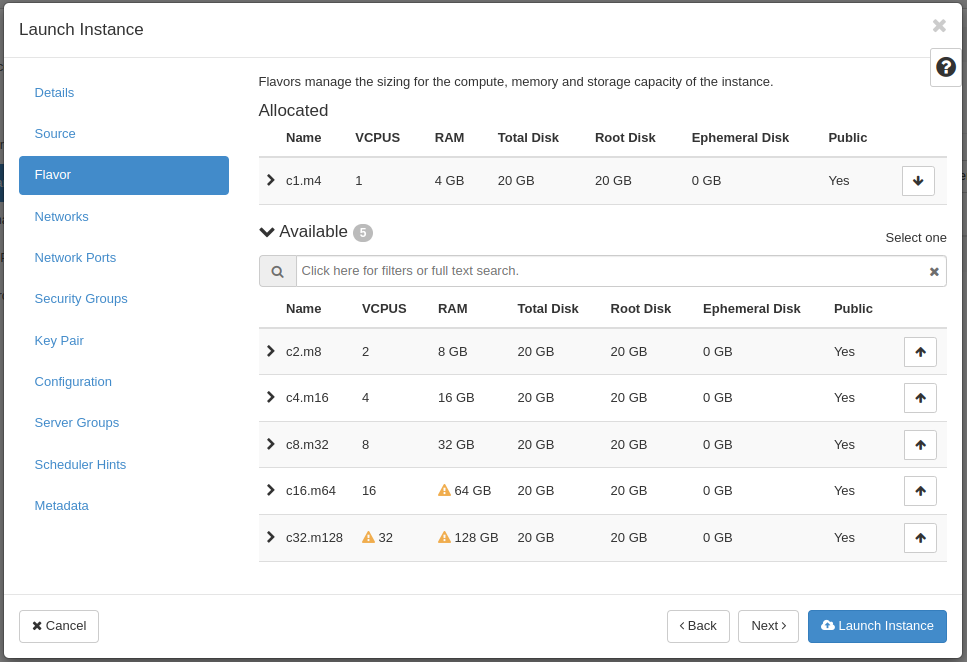
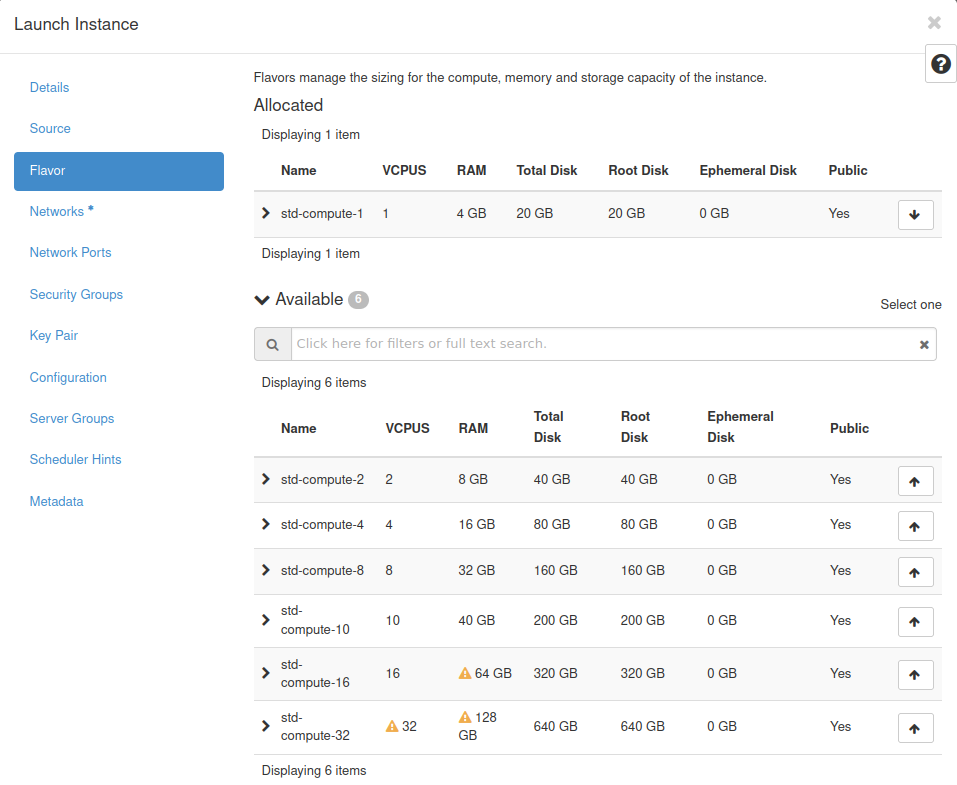
Updated Cloud docs, and fixed a link in the matlab doc

diff --git a/pages/cloud/advanced.md b/pages/cloud/advanced.md
@@ -49,12 +49,12 @@ $ source ~/openstack-cli/bin/activate
 
 ```bash
 (openstack-client) $ openstack server list
-+--------------------------------------+----------+--------+------------------------------------------------------+--------------------------+--------+
-| ID                                   | Name     | Status | Networks                                             | Image                    | Flavor |
-+--------------------------------------+----------+--------+------------------------------------------------------+--------------------------+--------+
-| 2407495d-ea94-4676-8a18-18cd29cd516d | test-vm2 | ACTIVE | lakeeffect-demo-network=128.205.11.65, 192.168.1.151 | N/A (booted from volume) | c1.m4  |
-| 3e22ef68-556a-4106-a56e-56674591fd8e | test-vm  | ACTIVE | ccr-public=128.205.11.52                             | N/A (booted from volume) | c1.m4  |
-+--------------------------------------+----------+--------+------------------------------------------------------+--------------------------+--------+
++--------------------------------------+----------+--------+------------------------------------------------------+--------------------------+----------------+
+| ID                                   | Name     | Status | Networks                                             | Image                    | Flavor         |
++--------------------------------------+----------+--------+------------------------------------------------------+--------------------------+----------------+
+| 2407495d-ea94-4676-8a18-18cd29cd516d | test-vm2 | ACTIVE | lakeeffect-demo-network=128.205.11.65, 192.168.1.151 | N/A (booted from volume) | std-compute-1  |
+| 3e22ef68-556a-4106-a56e-56674591fd8e | test-vm  | ACTIVE | ccr-public=128.205.11.52                             | N/A (booted from volume) | std-compute-1  |
++--------------------------------------+----------+--------+------------------------------------------------------+--------------------------+----------------+
 ```
 
 The **python-openstackclient** project is a common client that supports most of the various Openstack Projects, however You may need to install an individual project’s client because coverage is not yet sufficient in the OpenStack client. For example, the **python-cinderclient** may be needed if less common cinder commands are needed. This is installed the same way as the python-openstackclient package was installed. For more information on the individual project clients go [here](https://docs.openstack.org/newton/user-guide/common/cli-install-openstack-command-line-clients.html).
@@ -67,19 +67,18 @@ List Images:
 
 ```
 (openstack-client) $ openstack image list
-+--------------------------------------+------------------------------------------------+--------+
-| ID                                   | Name                                           | Status |
-+--------------------------------------+------------------------------------------------+--------+
-| f70d120e-89d7-4bef-a291-6db70406bd5b | CentOS 8-stream (x86_64) [2022-09-13]          | active |
-| 78aa844e-ab92-43b1-b7e3-9f826b02e6cd | CentOS 9-stream (x86_64) [2022-09-19]          | active |
-| bbc56d42-ec07-469a-b01b-33268c3040cf | Debian 10.13.4 (x86_64) [2022-10-13]           | active |
-| 48d45cc8-4272-4f8f-9a93-b920056b41d0 | Fedora 36 Cloud Base (x86_64) [2022-05-04]     | active |
-| f568aa5f-9b32-4182-ad9a-7afbee9e5c62 | Rocky Linux 8.6 (x86_64) [2022-07-02]          | active |
-| 74c64db6-0a08-4fae-b462-469a0c15ab99 | Rocky Linux 9.0 (x86_64) [2022-08-30]          | active |
-| 63754185-6872-40f1-8990-0bff66406b00 | Ubuntu 18.04 LTS (x86_64) [2022-10-14]         | active |
-| cbaa2d71-7837-4322-9eba-94dfc44c2898 | Ubuntu 20.04 LTS (x86_64) [2022-10-18]         | active |
-| 6b4041af-56df-4786-98ed-d3ede57ca901 | Ubuntu 22.04 LTS (x86_64) [2022-10-18]         | active |
-+--------------------------------------+------------------------------------------------+--------+
++--------------------------------------+---------------------------------------------------------+--------+
+| ID                                   | Name                                                    | Status |
++--------------------------------------+---------------------------------------------------------+--------+
+| 5e7dd171-0bcf-44f1-abdb-ed59aac60075 | CentOS 8-stream release [2024-04-16]                    | active |
+| bea90d3c-5594-44d1-8cab-757519996433 | CentOS 9-stream release [2024-04-16]                    | active |
+| b54ab975-118c-41e0-a193-e53d2acd4543 | Debian 12.5 (Bookworm) release [2024-04-15]             | active |
+| 6c78d3c7-fe38-4396-9e2e-d986db30297a | Fedora 39 Cloud Base release [2023-11-01]               | active |
+| dcd4ed90-09df-4176-86e9-29c856d8c546 | Rocky Linux 8.9 release [2023-11-19]                    | active |
+| 862bffe6-3b25-46c9-abdf-dedb9792bbca | Rocky Linux 9.3 release [2023-11-13]                    | active |
+| 37b8ca2b-3f13-4564-a2bd-2850cf6ee52c | Ubuntu 20.04 LTS (Focal Fossa) release [2024-04-08]     | active |
+| 562aba32-e911-4ef1-8411-fd726d990ac2 | Ubuntu 22.04 LTS (Jammy Jellyfish) release [2024-04-16] | active |
++--------------------------------------+------------------------------------------------+-----------------+
 ```
 
 List Volumes:
@@ -99,13 +98,13 @@ List Volumes:
 Spin up a VM:
 
 ```bash
-(openstack-client) $ openstack server create --flavor c1.m4 --image 'Ubuntu 22.04 LTS (x86_64) [2022-10-18]'  --network ccr-public --key-name sguercio --security-group My_Security-Group My_Test_VM
+(openstack-client) $ openstack server create --flavor std-compute-1 --image 'Ubuntu 22.04 LTS (Jammy Jellyfish) release [2024-04-16]'  --network ccr-public --key-name mykeypair --security-group My_Security-Group My_Test_VM
 ```
 
 Upload an Image to Openstack:
 
 ```bash
-(openstack-client) $ openstack image create --container-format bare --disk-format qcow2 --progress --public --file cirros-0.6.1-x86_64-disk.img 'CirrOS 0.6.1 (x86_64) [2022-11-22]'
+(openstack-client) $ openstack image create --container-format bare --disk-format qcow2 --progress --public --file cirros-0.6.2-x86_64-disk.img 'CirrOS 0.6.2 (x86_64) [2023-05-30]'
 ```
 
 ## Private Networking
@@ -143,7 +142,7 @@ Connect the router to the public network. This is optional if you want to be abl
 Create a new VM on the network to test:
 
 ```bash
-    $ openstack server create --flavor c1.m4 --image 'Ubuntu 22.04 LTS (x86_64) [2022-10-18]' --nic net-id=my-private-net --key-name mykeypair --security-group mysecgroup --wait Test-VM-1
+    $ openstack server create --flavor std-compute-1 --image 'Ubuntu 22.04 LTS (Jammy Jellyfish) release [2024-04-16]' --nic net-id=my-private-net --key-name mykeypair --security-group mysecgroup --wait Test-VM-1
 ```
 
 Attach a Floating IP address to the VM if you want it to have an IP address on the public network:
@@ -163,18 +162,18 @@ All traffic is allowed by default.**
 
 
 ```bash
-    $ openstack server create --flavor c1.m4 --image 'Ubuntu 22.04 LTS (x86_64) [2022-10-18]' --nic net-id=my-private-net --key-name mykeypair --security-group mysecgroup --wait Test-VM-2
+    $ openstack server create --flavor std-compute-1 --image 'Ubuntu 22.04 LTS (Jammy Jellyfish) release [2024-04-16]' --nic net-id=my-private-net --key-name mykeypair --security-group mysecgroup --wait Test-VM-2
 ```
 
 
 ```bash
     $ openstack server list
-    +--------------------------------------+-----------+--------+-----------------------------------------------+----------------------------------------+--------+
-    | ID                                   | Name      | Status | Networks                                      | Image                                  | Flavor |
-    +--------------------------------------+-----------+--------+-----------------------------------------------+----------------------------------------+--------+
-    | ef2e79b8-9e95-4a80-946b-f36f3d5d2cb5 | Test-VM-2 | ACTIVE | my-private-net=192.168.10.136                 | Ubuntu 22.04 LTS (x86_64) [2022-10-18] | c1.m4  |
-    | 461d98cc-f5db-4973-871e-c9f1f87aeb6b | Test-VM-1 | ACTIVE | my-private-net=128.205.11.111, 192.168.10.147 | Ubuntu 22.04 LTS (x86_64) [2022-10-18] | c1.m4  |
-    +--------------------------------------+-----------+--------+-----------------------------------------------+----------------------------------------+--------+
+    +--------------------------------------+-----------+--------+-----------------------------------------------+---------------------------------------------------------+---------------+
+    | ID                                   | Name      | Status | Networks                                      | Image                                                   | Flavor        |
+    +--------------------------------------+-----------+--------+-----------------------------------------------+---------------------------------------------------------+---------------+
+    | ef2e79b8-9e95-4a80-946b-f36f3d5d2cb5 | Test-VM-2 | ACTIVE | my-private-net=192.168.10.136                 | Ubuntu 22.04 LTS (Jammy Jellyfish) release [2024-04-16] | std-compute-1 |
+    | 461d98cc-f5db-4973-871e-c9f1f87aeb6b | Test-VM-1 | ACTIVE | my-private-net=128.205.11.111, 192.168.10.147 | Ubuntu 22.04 LTS (Jammy Jellyfish) release [2024-04-16] | std-compute-1 |
+    +--------------------------------------+-----------+--------+-----------------------------------------------+---------------------------------------------------------+---------------+
 ```
 
 ```bash

diff --git a/pages/cloud/using.md b/pages/cloud/using.md
@@ -120,13 +120,13 @@ For more information about instances, flavors and images please see the official
 
 > | Instance Type | vCPU | Memory | Storage |
 > | :---     |    ---:  |   ---: |    ---:|
-> | c1.m4    | 1 cores  | 4 GB   | 20 GB  |
-> | c2.m8    | 2 cores  | 8 GB   | 20 GB  |
-> | c4.m16   | 4 cores  | 16 GB  | 20 GB  |
-> | c6.m24   | 6 cores  | 24 GB  | 20 GB  |
-> | c8.m32   | 8 cores  | 32 GB  | 40 GB  |
-> | c16.m64  | 16 cores | 64 GB  | 60 GB  |
-> | c32.m128 | 32 cores | 128 GB | 120 GB |
+> | std-compute-1    | 1 cores  | 4 GB   | 20 GB  |
+> | std-compute-2    | 2 cores  | 8 GB   | 40 GB  |
+> | std-compute-4   | 4 cores  | 16 GB  | 80 GB  |
+> | std-compute-8   | 8 cores  | 32 GB  | 160 GB  |
+> | std-compute-10  | 10 cores | 40 GB  | 200 GB  |
+> | std-compute-16 | 16 cores | 64 GB | 320 GB |
+> | std-compute-32 | 32 cores | 128 GB | 640 GB |
 
 
 > ###### Advanced
@@ -138,8 +138,8 @@ For more information about instances, flavors and images please see the official
 
 > | Instance Type | GPU | vCPU | Memory | Storage |
 > | :---     |  :----: |   ---:  |   ---: |    ---:|
-> | c8.m32.gpu16   | V100D-16Q | 8 cores  | 32 GB   | 60 GB  |
-> | c16.m64.gpu32  | V100D-32Q | 16 cores | 64 GB   | 120 GB |
+> | adv-gpu-8   | V100-32 | 8 cores  | 32 GB   | 100 GB  |
+> | adv-gpu-16 | V100-32 | 16 cores | 64 GB   | 100 GB |
 
 >> **FastIO**
 
@@ -148,10 +148,18 @@ For more information about instances, flavors and images please see the official
 
 > | Instance Type | vCPU | Memory | NVME Storage | Block Storage |
 > | :---     |    ---: |   ---:  |   ---: |     ---:|
-> | c4.m16.e100   | 8 cores   | 16 GB   | 100 GB | 20 GB  |
-> | c8.m32.e250   | 16 cores  | 32 GB   | 250 GB | 40 GB  |
-> | c16.m64.e500  | 32 cores  | 32 GB   | 500 GB | 60 GB  |
+> | adv-nvme-4   | 4 cores   | 16 GB   | 100 GB | 80 GB  |
+> | adv-nvme-8   | 8 cores   | 32 GB   | 250 GB | 160 GB  |
+> | adv-nvme-16   | 16 cores   | 64 GB   | 500 GB | 320 GB  |
 
+> | Instance Type | vCPU | Memory | PMEM Storage | Block Storage |
+> | :---     |    ---: |   ---:  |   ---: |     ---:|
+> | adv-pmem-16   | 16 cores   | 64 GB   | 500 GB | 320 GB  |
+> | adv-nvme-32   | 32 cores   | 128 GB   | 1000 GB | 640 GB  |
+
+> ###### Custom Flavors
+
+If you require a flavor that is not listed, you can contact [Contact CCR Help](../help.md) and we can work with you on creating a custom flavor that suits your needs.
 
 #### Images
 
@@ -161,16 +169,14 @@ These are all stock images pulled directly from the various vendor repos. Due to
 
 > |Operating System | Version | Build Date |
 > | :----: | ---: | ---: |
-> | CentOS | 7.9  | 2021-11-16|
-> | CentOS | 8-stream | 2022-09-13|
-> | CentOS | 9-stream | 2022-09-19|
-> | Debian | 10.13.4 | 2022-10-13|
-> | Fedora | 36 | 2022-05-04|
-> | Rocky  | 8.6 | 2022-07-02|
-> | Rocky  | 9.0 | 2022-08-30|
-> | Ubuntu  | 18.04 | 2022-10-14|
-> | Ubuntu  | 20.04 | 2022-10-18|
-> | Ubuntu  | 22.04 | 2022-10-18|
+> | CentOS | 8-stream | 2024-04-16|
+> | CentOS | 9-stream | 2024-04-16|
+> | Debian | 12.5 | 2024-04-15|
+> | Fedora | 39 | 2023-11-01|
+> | Rocky  | 8.9 | 2023-11-19|
+> | Rocky  | 9.3 | 2023-11-13|
+> | Ubuntu  | 20.04 | 2024-04-08|
+> | Ubuntu  | 22.04 | 2024-04-16|
 
 ### Creating an Instance in LakeEffect
 
@@ -280,4 +286,9 @@ Some users may want to partition the root disk of an instance in a specific way.
 
 ### Logging in to your Instance
 
-___Coming Soon___
+Once your instance has booted up, the only way to connect to them is using SSH with the keypair that you selected when you created the instance. You also need to make sure that you have a security group that allows ssh in from your IP address.
+
+
+!!! Danger "Do not open unecessary ports"
+    You should only open the **bare minimum** ports open and to the **smallest range** of IP addresses needed. The more ports that are open the more susceptible your instance
+    is to compromise. CCR will shut down insecure instances.

diff --git a/pages/howto/matlab.md b/pages/howto/matlab.md
@@ -248,7 +248,7 @@ matlab -singleCompThread -nodisplay -nosplash -r svd_matlab
 ```
 
 In the above Slurm script, notice the new line: **#SBATCH --gpus-per-node=1**
-This tells slurm to request a node with 1 GPU. See [here](../hpc/jobs/#slurm-directives-partitions-qos) for additional Slurm directives, including how to request a specific GPU type.
+This tells slurm to request a node with 1 GPU. See [here](../hpc/jobs.md#slurm-directives-partitions-qos) for additional Slurm directives, including how to request a specific GPU type.
 
 For interactive MATLAB jobs as described [above](#unning-matlab-interactively-on-the-command-line), a GPU can be requested the same way.  For example, add this to your `salloc` command to request 1 GPU:  `--gpus-per-node=1`
 

diff --git a/pages/cloud/lake-effect.md b/pages/cloud/lake-effect.md
@@ -40,7 +40,7 @@ Features of LakeEffect:
 > * 768 total CPU cores
 > * 8.8TB RAM (4GB per vCPU core)
 > * 1.7PB of object-oriented storage
-> * NVidia V100 vGPUs
+> * NVidia V100 GPUs
 > * NVME Ephemeral Storage
 > * Persistant Memory (PMEM) Storage
 
